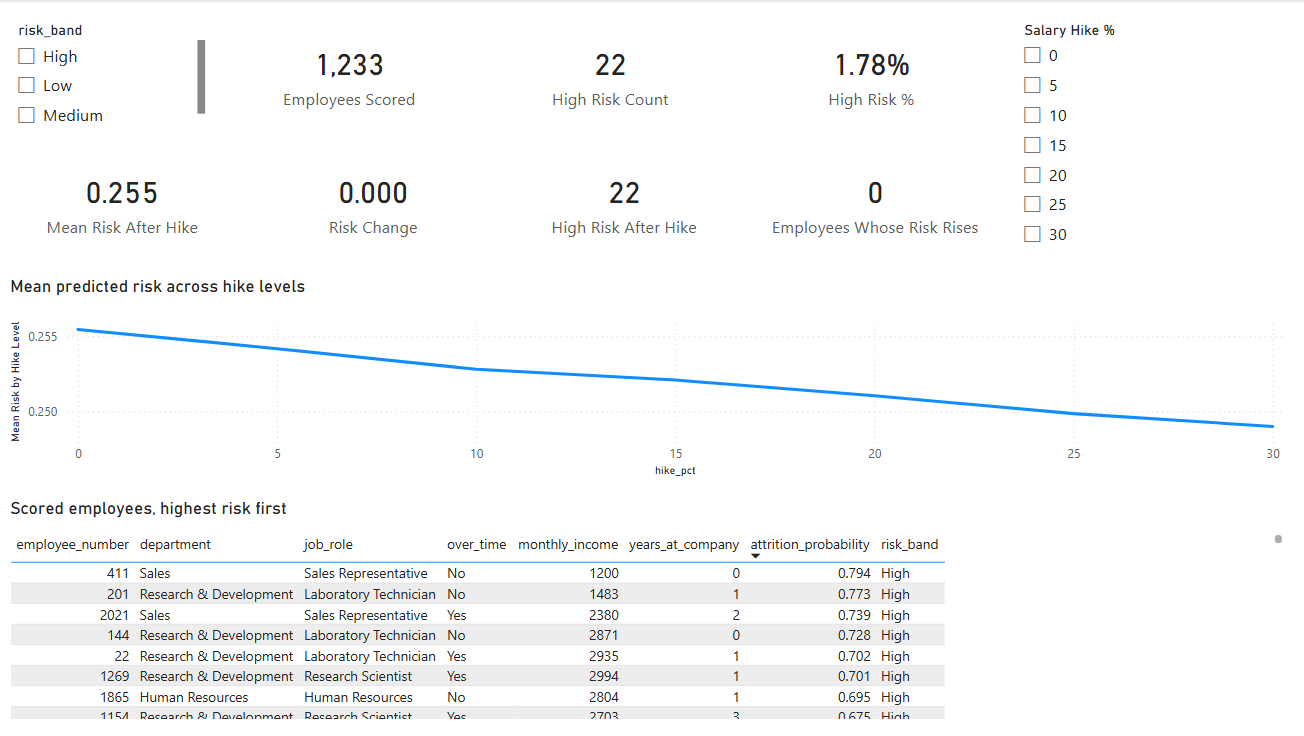
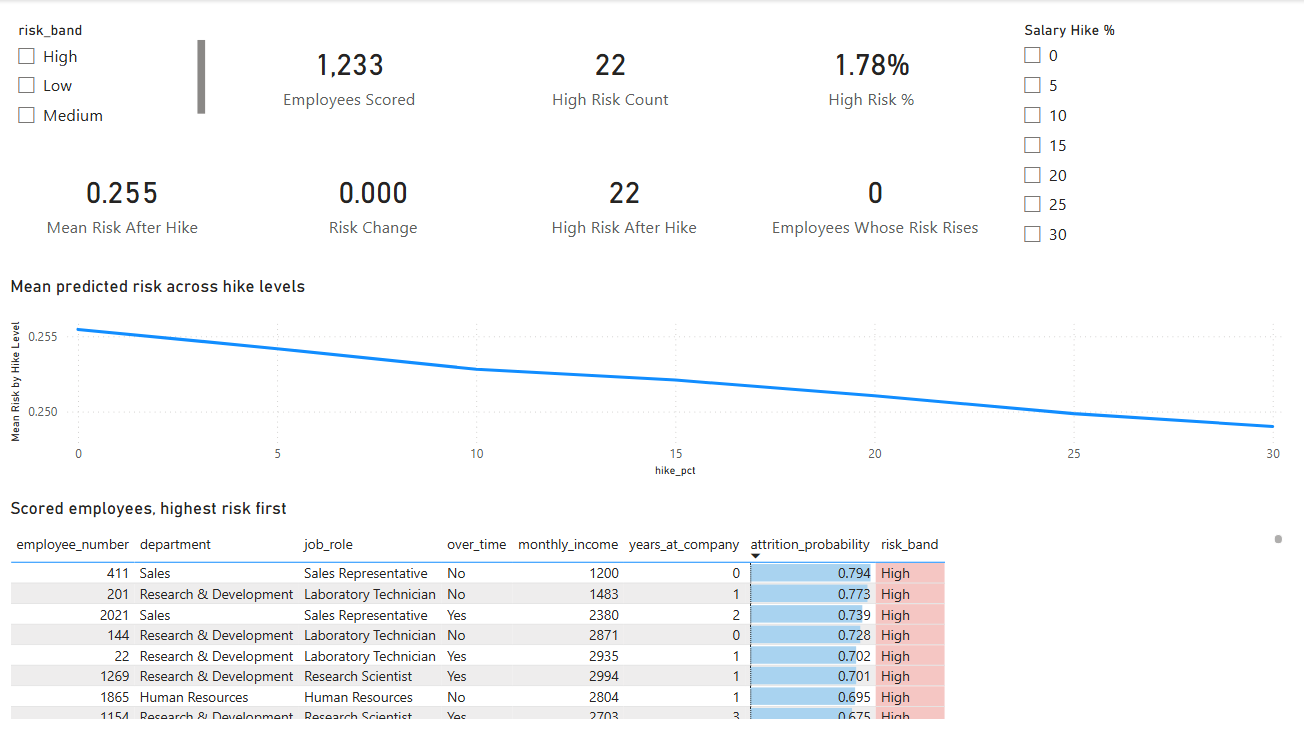
feat: conditional formatting on the At-Risk Employees table
Data bars on attrition_probability, band colours on risk_band — the last
piece of the HR report that was specified but never built.

Applied by hand in Power BI once, saved, and the JSON read back off disk
before being written into hr_pages_spec.py. Re-rendering from the spec then
reproduced the app's `objects` block byte for byte. Guessing would have
failed: the two features do not share a selector shape. `columnFormatting`
takes a bare `metadata`; `values` also needs a dataViewWildcard, and without
it the rules match nothing.

Two things only the rendered table could catch, both after the JSON was
already correct:

- The theme's 'maxColor' bar is drawn *behind* the value, so on a descending
  sort the top rows put black digits on saturated blue. Overridden to a light
  #A9D3F0. The shape stayed as read; only the colour changed.
- A blank "Total" row appeared. Totals had been on the whole time — the page
  fitted eight employees and the total sat just past the bottom edge. Data
  bars shortened the body by one row and made it the last visible line, in
  the slot an eighth employee used to occupy. Turned off.

Verified live after a full rebuild and push: page 3 reads 1,233 / 22 / 1.78%,
eight employees listed, no total row, and +15 on the hike slicer still gives
0.252 / -0.003 / 21 / 478. hr-recon.dax is 51 of 51.

Changed region(s): [[0.5521, 0.75, 0.7362, 1.0]]

diff --git a/README.md b/README.md
@@ -46,6 +46,8 @@ The model imports the same three CSVs the pipeline produces — the snake-cased 
 ### 3. At-Risk Employees
 ![At-Risk Employees — Power BI](powerbi/docs/screenshots/3-at-risk-employees.png)
 
+**The table is formatted to be read at a glance, not scrolled.** `attrition_probability` carries data bars and `risk_band` is colour-banded, so the shape of the risk distribution is visible without reading a single number — and the two encode the same thing twice, deliberately, because a reader scanning for "who is in trouble" should not have to compare three-decimal probabilities by eye. The bar is drawn *behind* the value rather than beside it, so it uses a light blue: the theme's default is saturated enough that the top rows became black digits on solid colour.
+
 **The what-if is a disconnected slicer, not a calculated column.** `Salary Hike %` is a standalone table with no relationship to anything. `Selected Hike = SELECTEDVALUE ( 'Salary Hike %'[Salary Hike %], 0 )` picks the level, and `Mean Risk After Hike` averages `hike_simulation` at that level — so the DAX reads the Python simulation's stored grid rather than re-deriving it with a fudge factor.
 
 **Why the screenshot shows `Risk Change 0.000`.** With nothing selected, `SELECTEDVALUE` falls back to `0` — the baseline, where "after hike" *is* "before hike". Selecting 15% gives **Risk Change −0.003, mean risk 0.252, 478 employees whose risk rises**, matching `hike_simulation.csv` row for row.
